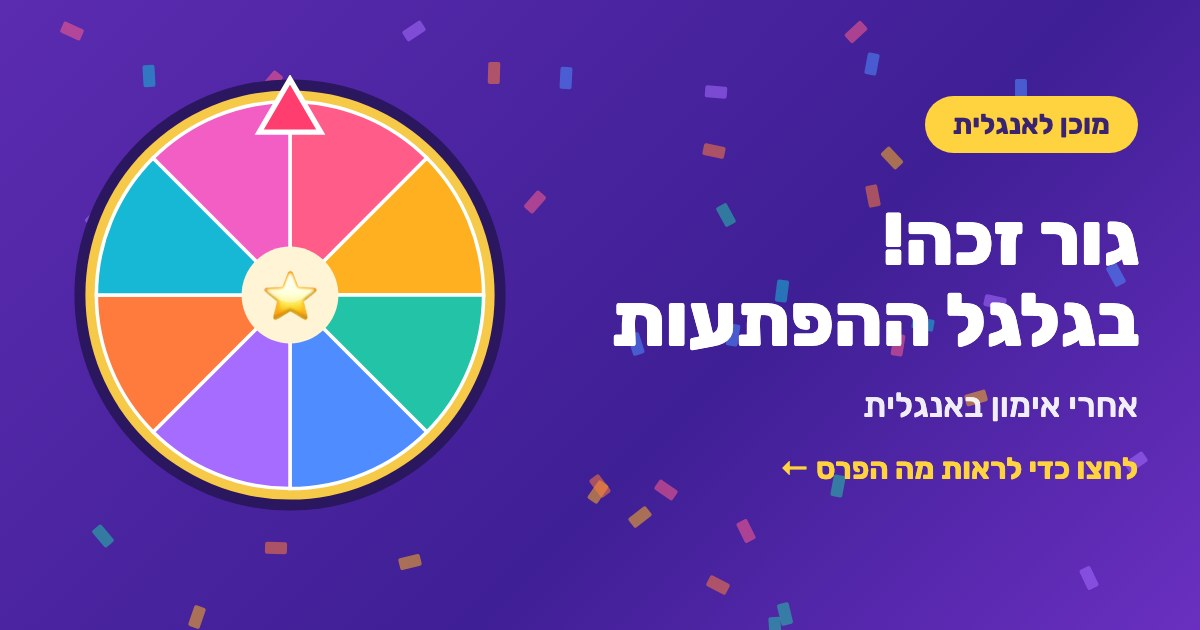
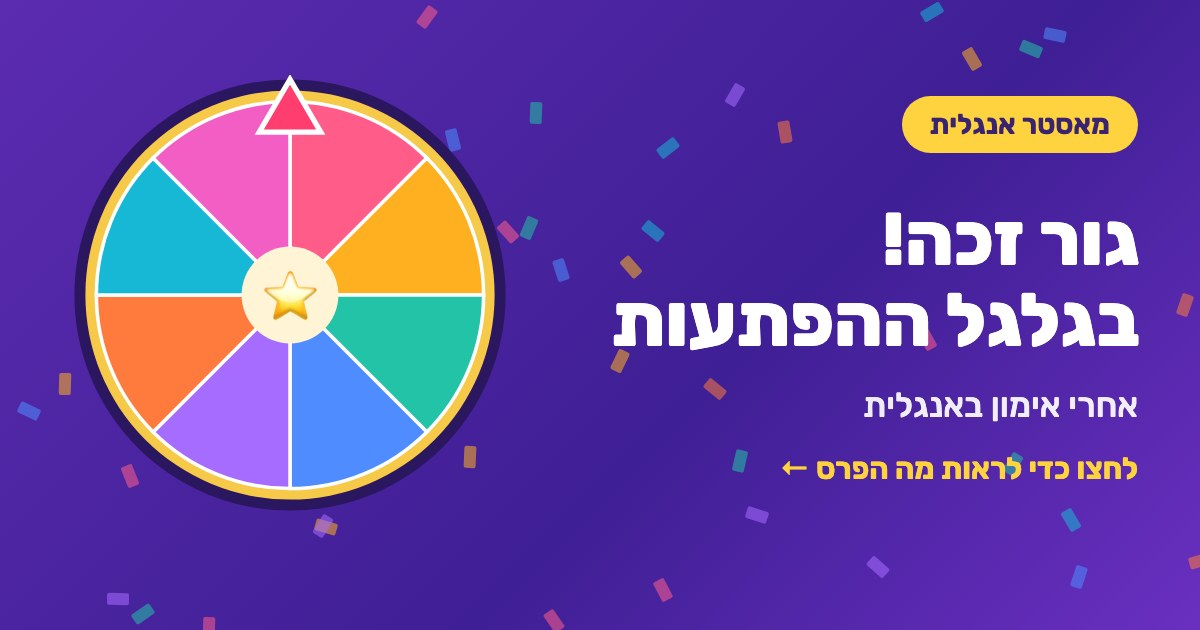
Rename the English app to מאסטר אנגלית (titles, previews, pictures, win pages, hub entry; the english-ready/ address stays); kid links carry a version so WhatsApp builds a fresh preview

diff --git a/english-ready/index.html b/english-ready/index.html
@@ -5,22 +5,22 @@
 <meta name="viewport" content="width=device-width, initial-scale=1, viewport-fit=cover">
 <meta name="description" content="מסע אנגלית משלך, ברמה שלך: מילים, קריאה, כתיבה ודיבור. כמה דקות ביום, עם כוכבים, חותמות והפתעות.">
 <meta property="og:type" content="website">
-<meta property="og:title" content="מוכן לאנגלית">
-<meta property="og:site_name" content="מוכן לאנגלית">
+<meta property="og:title" content="מאסטר אנגלית">
+<meta property="og:site_name" content="מאסטר אנגלית">
 <meta property="og:description" content="מסע אנגלית משלך, ברמה שלך: מילים, קריאה, כתיבה ודיבור. כמה דקות ביום, עם כוכבים, חותמות והפתעות.">
-<meta property="og:image" content="https://yaelavgil.github.io/yaella/english-ready/og.jpg?v=2">
+<meta property="og:image" content="https://yaelavgil.github.io/yaella/english-ready/og.jpg?v=3">
 <meta property="og:image:width" content="1200">
 <meta property="og:image:height" content="630">
 <meta property="og:url" content="https://yaelavgil.github.io/yaella/english-ready/">
 <meta name="twitter:card" content="summary_large_image">
-<meta name="twitter:title" content="מוכן לאנגלית">
+<meta name="twitter:title" content="מאסטר אנגלית">
 <meta name="twitter:description" content="מסע אנגלית משלך, ברמה שלך: מילים, קריאה, כתיבה ודיבור. כמה דקות ביום, עם כוכבים, חותמות והפתעות.">
-<meta name="twitter:image" content="https://yaelavgil.github.io/yaella/english-ready/og.jpg?v=2">
+<meta name="twitter:image" content="https://yaelavgil.github.io/yaella/english-ready/og.jpg?v=3">
 <link rel="icon" href="/yaella/favicon.svg" type="image/svg+xml">
 <link rel="icon" href="/yaella/favicon-32.png" sizes="32x32" type="image/png">
 <link rel="apple-touch-icon" href="/yaella/apple-touch-icon.png">
 <style>:root{color-scheme:light;padding-top:env(safe-area-inset-top,0px);padding-bottom:env(safe-area-inset-bottom,0px)}body{margin:0;font:14px system-ui,sans-serif}img{max-width:100%}[hidden]{display:none!important}</style>
-<title>מוכן לאנגלית</title>
+<title>מאסטר אנגלית</title>
 <link rel="preconnect" href="https://fonts.googleapis.com">
 <link rel="preconnect" href="https://fonts.gstatic.com" crossorigin>
 <link rel="stylesheet" href="https://fonts.googleapis.com/css2?family=Andika:wght@400;700&family=Fredoka:wght@500;600;700&family=Rubik:wght@400;500;700&display=swap">
@@ -2129,7 +2129,7 @@ function home() {
   <header class="hero">
     <div class="heroart" aria-hidden="true"><span class="ha a1">📚</span><span class="ha a2">🚀</span><span class="ha a3">✨</span><span class="ha a4">⭐</span></div>
     <div class="blocks" aria-hidden="true"><span class="blk h1">A</span><span class="blk h2">B</span><span class="blk h4">C</span></div>
-    <h1>${KID ? `${KID.photo ? `<img class="kavatar" src="${KID.photo}" alt="">` : ''}שלום ${esc(KID.name)}!` : 'מוכן לאנגלית'}</h1>
+    <h1>${KID ? `${KID.photo ? `<img class="kavatar" src="${KID.photo}" alt="">` : ''}שלום ${esc(KID.name)}!` : 'מאסטר אנגלית'}</h1>
     ${KID ? `<p class="sub">${KID.mode === 'test' ? 'כאן עושים מבחן ניסיון.' : KID.mode === 'learn' ? 'כאן מתרגלים אנגלית.<br>בהצלחה!' : 'מתכוננים למבחן באנגלית.'}</p>` : ''}
     <div class="pills">${G4 ? `<span class="pill due">${countdown()}</span>` : ''}<span class="pill">${isPP(st) ? `🛂 ${jour(st).n}/${JOUR_N} חותמות` : isStars(st) ? `⭐ ${jour(st).n}/26 כוכבים` : `🔤 ${jour(st).n}/26 אותיות`}</span></div>
   </header>
@@ -2311,7 +2311,8 @@ async function bootKid(id, mode) {
 }
 
 // --- parent side
-const kidLink = (id, mode) => `${location.origin}${location.pathname}?k=${id}&m=${mode}${DEMO ? '&demo' : ''}`;
+const LINK_V = 3; // bump when the link preview changes: WhatsApp caches a preview per exact URL
+const kidLink = (id, mode) => `${location.origin}${location.pathname}?k=${id}&m=${mode}&v=${LINK_V}${DEMO ? '&demo' : ''}`;
 /* ---------- the parent's strip at the top of the home screen ----------
    Getting in used to mean scrolling past everything a child sees to a link at the very
    bottom. The way in now sits above the page, and once a parent is in, each child's day
@@ -3469,7 +3470,7 @@ async function winCardBlob(pz, at, artM) {
   // ribbon
   x.fillStyle = '#FFEDB8'; roundRect(x, W / 2 - 170, 112, 340, 68, 34); x.fill();
   x.fillStyle = '#A8740C'; x.font = f(BOD, 34, 700);
-  x.fillText('מוכן לאנגלית', W / 2, 157);
+  x.fillText('מאסטר אנגלית', W / 2, 157);
 
   // the kid's own photo, in a ring in the corner of the card
   if (KID && KID.photo) {

diff --git a/english-ready/w-lili.html b/english-ready/w-lili.html
@@ -3,22 +3,22 @@
 <head>
 <meta charset="utf-8">
 <meta name="viewport" content="width=device-width,initial-scale=1,viewport-fit=cover">
-<title>🎡 לילי זכתה בגלגל ההפתעות! · מוכן לאנגלית</title>
+<title>🎡 לילי זכתה בגלגל ההפתעות! · מאסטר אנגלית</title>
 
 <!-- WhatsApp and the rest read these from the raw HTML and never run the script below,
      this copy is made by make_win_pages.py for one kid (lili); edit w.html, not this file. The win itself loads when the page opens. -->
 <meta property="og:type" content="website">
-<meta property="og:site_name" content="מוכן לאנגלית">
+<meta property="og:site_name" content="מאסטר אנגלית">
 <meta property="og:title" content="🎡 לילי זכתה בגלגל ההפתעות!">
 <meta property="og:description" content="אחרי אימון באנגלית. לחצו כדי לראות במה זכתה.">
-<meta property="og:image" content="https://yaelavgil.github.io/yaella/english-ready/og-win-lili.jpg?v=3">
+<meta property="og:image" content="https://yaelavgil.github.io/yaella/english-ready/og-win-lili.jpg?v=4">
 <meta property="og:image:width" content="1200">
 <meta property="og:image:height" content="630">
 <meta property="og:url" content="https://yaelavgil.github.io/yaella/english-ready/w-lili.html">
 <meta name="twitter:card" content="summary_large_image">
 <meta name="twitter:title" content="🎡 לילי זכתה בגלגל ההפתעות!">
 <meta name="twitter:description" content="אחרי אימון באנגלית. לחצו כדי לראות במה זכתה.">
-<meta name="twitter:image" content="https://yaelavgil.github.io/yaella/english-ready/og-win-lili.jpg?v=3">
+<meta name="twitter:image" content="https://yaelavgil.github.io/yaella/english-ready/og-win-lili.jpg?v=4">
 <meta name="theme-color" content="#3B1F8F">
 
 <link rel="icon" href="favicon.ico">
@@ -59,9 +59,9 @@
   <div class="card"><div class="ph" id="slot">טוען את הזכייה…</div></div>
   <div class="row" id="acts" hidden>
     <a class="btn" id="dl" download="win.png">⬇ שמירת התמונה</a>
-    <a class="btn ghost" href="./">מוכן לאנגלית</a>
+    <a class="btn ghost" href="./">מאסטר אנגלית</a>
   </div>
-  <p class="foot">מוכן לאנגלית · גלגל ההפתעות</p>
+  <p class="foot">מאסטר אנגלית · גלגל ההפתעות</p>
 </main>
 <script>
 const DB = 'https://home-picks-47450-default-rtdb.europe-west1.firebasedatabase.app';

diff --git a/english-ready/w-dani.html b/english-ready/w-dani.html
@@ -3,22 +3,22 @@
 <head>
 <meta charset="utf-8">
 <meta name="viewport" content="width=device-width,initial-scale=1,viewport-fit=cover">
-<title>🎡 דני זכתה בגלגל ההפתעות! · מוכן לאנגלית</title>
+<title>🎡 דני זכתה בגלגל ההפתעות! · מאסטר אנגלית</title>
 
 <!-- WhatsApp and the rest read these from the raw HTML and never run the script below,
      this copy is made by make_win_pages.py for one kid (dani); edit w.html, not this file. The win itself loads when the page opens. -->
 <meta property="og:type" content="website">
-<meta property="og:site_name" content="מוכן לאנגלית">
+<meta property="og:site_name" content="מאסטר אנגלית">
 <meta property="og:title" content="🎡 דני זכתה בגלגל ההפתעות!">
 <meta property="og:description" content="אחרי אימון באנגלית. לחצו כדי לראות במה זכתה.">
-<meta property="og:image" content="https://yaelavgil.github.io/yaella/english-ready/og-win-dani.jpg?v=3">
+<meta property="og:image" content="https://yaelavgil.github.io/yaella/english-ready/og-win-dani.jpg?v=4">
 <meta property="og:image:width" content="1200">
 <meta property="og:image:height" content="630">
 <meta property="og:url" content="https://yaelavgil.github.io/yaella/english-ready/w-dani.html">
 <meta name="twitter:card" content="summary_large_image">
 <meta name="twitter:title" content="🎡 דני זכתה בגלגל ההפתעות!">
 <meta name="twitter:description" content="אחרי אימון באנגלית. לחצו כדי לראות במה זכתה.">
-<meta name="twitter:image" content="https://yaelavgil.github.io/yaella/english-ready/og-win-dani.jpg?v=3">
+<meta name="twitter:image" content="https://yaelavgil.github.io/yaella/english-ready/og-win-dani.jpg?v=4">
 <meta name="theme-color" content="#3B1F8F">
 
 <link rel="icon" href="favicon.ico">
@@ -59,9 +59,9 @@
   <div class="card"><div class="ph" id="slot">טוען את הזכייה…</div></div>
   <div class="row" id="acts" hidden>
     <a class="btn" id="dl" download="win.png">⬇ שמירת התמונה</a>
-    <a class="btn ghost" href="./">מוכן לאנגלית</a>
+    <a class="btn ghost" href="./">מאסטר אנגלית</a>
   </div>
-  <p class="foot">מוכן לאנגלית · גלגל ההפתעות</p>
+  <p class="foot">מאסטר אנגלית · גלגל ההפתעות</p>
 </main>
 <script>
 const DB = 'https://home-picks-47450-default-rtdb.europe-west1.firebasedatabase.app';

diff --git a/english-ready/w-gur.html b/english-ready/w-gur.html
@@ -3,22 +3,22 @@
 <head>
 <meta charset="utf-8">
 <meta name="viewport" content="width=device-width,initial-scale=1,viewport-fit=cover">
-<title>🎡 גור זכה בגלגל ההפתעות! · מוכן לאנגלית</title>
+<title>🎡 גור זכה בגלגל ההפתעות! · מאסטר אנגלית</title>
 
 <!-- WhatsApp and the rest read these from the raw HTML and never run the script below,
      this copy is made by make_win_pages.py for one kid (gur); edit w.html, not this file. The win itself loads when the page opens. -->
 <meta property="og:type" content="website">
-<meta property="og:site_name" content="מוכן לאנגלית">
+<meta property="og:site_name" content="מאסטר אנגלית">
 <meta property="og:title" content="🎡 גור זכה בגלגל ההפתעות!">
 <meta property="og:description" content="אחרי אימון באנגלית. לחצו כדי לראות במה זכה.">
-<meta property="og:image" content="https://yaelavgil.github.io/yaella/english-ready/og-win-gur.jpg?v=3">
+<meta property="og:image" content="https://yaelavgil.github.io/yaella/english-ready/og-win-gur.jpg?v=4">
 <meta property="og:image:width" content="1200">
 <meta property="og:image:height" content="630">
 <meta property="og:url" content="https://yaelavgil.github.io/yaella/english-ready/w-gur.html">
 <meta name="twitter:card" content="summary_large_image">
 <meta name="twitter:title" content="🎡 גור זכה בגלגל ההפתעות!">
 <meta name="twitter:description" content="אחרי אימון באנגלית. לחצו כדי לראות במה זכה.">
-<meta name="twitter:image" content="https://yaelavgil.github.io/yaella/english-ready/og-win-gur.jpg?v=3">
+<meta name="twitter:image" content="https://yaelavgil.github.io/yaella/english-ready/og-win-gur.jpg?v=4">
 <meta name="theme-color" content="#3B1F8F">
 
 <link rel="icon" href="favicon.ico">
@@ -59,9 +59,9 @@
   <div class="card"><div class="ph" id="slot">טוען את הזכייה…</div></div>
   <div class="row" id="acts" hidden>
     <a class="btn" id="dl" download="win.png">⬇ שמירת התמונה</a>
-    <a class="btn ghost" href="./">מוכן לאנגלית</a>
+    <a class="btn ghost" href="./">מאסטר אנגלית</a>
   </div>
-  <p class="foot">מוכן לאנגלית · גלגל ההפתעות</p>
+  <p class="foot">מאסטר אנגלית · גלגל ההפתעות</p>
 </main>
 <script>
 const DB = 'https://home-picks-47450-default-rtdb.europe-west1.firebasedatabase.app';

diff --git a/english-ready/w.html b/english-ready/w.html
@@ -3,22 +3,22 @@
 <head>
 <meta charset="utf-8">
 <meta name="viewport" content="width=device-width,initial-scale=1,viewport-fit=cover">
-<title>🎡 זכייה בגלגל ההפתעות · מוכן לאנגלית</title>
+<title>🎡 זכייה בגלגל ההפתעות · מאסטר אנגלית</title>
 
 <!-- WhatsApp and the rest read these from the raw HTML and never run the script below,
      so the preview is the same for every win. The win itself loads when the page opens. -->
 <meta property="og:type" content="website">
-<meta property="og:site_name" content="מוכן לאנגלית">
+<meta property="og:site_name" content="מאסטר אנגלית">
 <meta property="og:title" content="🎡 זכייה בגלגל ההפתעות!">
 <meta property="og:description" content="אחרי אימון באנגלית. לחצו כדי לראות מה הפרס.">
-<meta property="og:image" content="https://yaelavgil.github.io/yaella/english-ready/og-win.jpg?v=2">
+<meta property="og:image" content="https://yaelavgil.github.io/yaella/english-ready/og-win.jpg?v=3">
 <meta property="og:image:width" content="1200">
 <meta property="og:image:height" content="630">
 <meta property="og:url" content="https://yaelavgil.github.io/yaella/english-ready/w.html">
 <meta name="twitter:card" content="summary_large_image">
 <meta name="twitter:title" content="🎡 זכייה בגלגל ההפתעות!">
 <meta name="twitter:description" content="אחרי אימון באנגלית. לחצו כדי לראות מה הפרס.">
-<meta name="twitter:image" content="https://yaelavgil.github.io/yaella/english-ready/og-win.jpg?v=2">
+<meta name="twitter:image" content="https://yaelavgil.github.io/yaella/english-ready/og-win.jpg?v=3">
 <meta name="theme-color" content="#3B1F8F">
 
 <link rel="icon" href="favicon.ico">
@@ -59,9 +59,9 @@
   <div class="card"><div class="ph" id="slot">טוען את הזכייה…</div></div>
   <div class="row" id="acts" hidden>
     <a class="btn" id="dl" download="win.png">⬇ שמירת התמונה</a>
-    <a class="btn ghost" href="./">מוכן לאנגלית</a>
+    <a class="btn ghost" href="./">מאסטר אנגלית</a>
   </div>
-  <p class="foot">מוכן לאנגלית · גלגל ההפתעות</p>
+  <p class="foot">מאסטר אנגלית · גלגל ההפתעות</p>
 </main>
 <script>
 const DB = 'https://home-picks-47450-default-rtdb.europe-west1.firebasedatabase.app';

diff --git a/index.html b/index.html
@@ -85,8 +85,8 @@ var BASE = 'https://yaelavgil.github.io/yaella/';
 var PAGES = [
   {slug:'shithead', group:'משחקים', title:'שיטהד · משחק הקלפים', who:'חברים', date:'2026-11-19',
    desc:'חוקי הבית עם הגדרות (2 לפי סמל או מאפס, עם/בלי ג׳וקר). מול המחשב או מרחוק, עם קבוצות קבועות, הזמנות וטבלת מנצחים.', path:'shithead/', thumb:'shithead/og.jpg'},
-  {slug:'english-ready', group:'בית ספר', title:'מוכן לאנגלית · תרגול למבחן המיפוי', who:'משפחה', date:'2026-11-16',
-   desc:'צלילים, אותיות גדולות וקטנות, כתיבה, משפטים, הבנת הנקרא ומספרים עד 12, עם הקראה באנגלית.', path:'english-ready/', thumb:'english-ready/og.jpg'},
+  {slug:'english-ready', group:'בית ספר', title:'מאסטר אנגלית', who:'משפחה', date:'2026-11-16',
+   desc:'מסע אנגלית אישי לכל ילד, ברמה שלו: מילים, קריאה, כתיבה ודיבור, עם כוכבים, חותמות וגלגל הפתעות.', path:'english-ready/', thumb:'english-ready/og.jpg'},
   {slug:'elections-2026', group:'בחירות 2026', title:'שליף אמת · למה הדמוקרטים', who:'חברים', date:'2026-10-27',
    desc:'שליף לנייד: מסרים, תשובות לטענות, 15 הראשונים, עובדות ומפלגות, עם קישורים למקורות ולמצע.', path:'elections-2026/', thumb:'elections-2026/og.jpg'},
   {slug:'garden', group:'הבית · החצר', title:'איזה עץ זה? · משחקון הגינה', who:'משפחה', date:'2026-10-22',

diff --git a/english-ready/og-src/win.html b/english-ready/og-src/win.html
@@ -25,7 +25,7 @@ const sl=document.getElementById('sl'),n=8,c=['#FF5C8A','#FFB020','#22C3A6','#4E
 const P=(a,r)=>[50+r*Math.sin(a*Math.PI/180),50-r*Math.cos(a*Math.PI/180)];
 for(let i=0;i<n;i++){const a0=i*45,a1=a0+45,[x0,y0]=P(a0,44),[x1,y1]=P(a1,44);sl.insertAdjacentHTML('beforeend',`<path d="M50 50 L${x0} ${y0} A44 44 0 0 1 ${x1} ${y1} Z" fill="${c[i]}" stroke="#fff" stroke-width=".8"/>`);}
 </script>
-<span class="pill">מוכן לאנגלית</span>
+<span class="pill">מאסטר אנגלית</span>
 <h1 id="t">זכייה!<br>בגלגל ההפתעות</h1>
 <script>{const q=new URLSearchParams(location.search),n=q.get('n');if(n)document.getElementById('t').innerHTML=`${n.replace(/[<>&]/g,'')} ${q.get('v')==='f'?'זכתה':'זכה'}!<br>בגלגל ההפתעות`;}</script>
 <p class="s">אחרי אימון באנגלית</p>

diff --git a/english-ready/og-src/og.html b/english-ready/og-src/og.html
@@ -22,7 +22,7 @@ svg{position:absolute;inset:0}
   <div class="st" style="left:190px;top:16px;background:#FFD1DC">🎡</div>
 </div>
 <div class="blocks"><div class="b b1">A</div><div class="b b2">B</div><div class="b b3">C</div></div>
-<h1>מוכן לאנגלית</h1>
+<h1>מאסטר אנגלית</h1>
 <p class="sub">מסע אנגלית משלך, ברמה שלך.<br>כמה דקות ביום.</p>
 <div class="chips"><span class="c">📖 קריאה</span><span class="c">✍ כתיבה</span><span class="c">🗣 דיבור</span><span class="c">🎁 הפתעות</span></div>
 </body></html>

diff --git a/english-ready/make_win_pages.py b/english-ready/make_win_pages.py
@@ -13,7 +13,7 @@ from PIL import Image
 D = pathlib.Path(__file__).resolve().parent
 CHROME = '/Applications/Google Chrome.app/Contents/MacOS/Google Chrome'
 BASE = 'https://yaelavgil.github.io/yaella/english-ready/'
-V = '3'  # bump to make WhatsApp fetch the pictures again
+V = '4'  # bump to make WhatsApp fetch the pictures again
 # slug, first name as the kid sees it, 'f' or 'm' (זכתה / זכה)
 KIDS = [('gur', 'גור', 'm'), ('dani', 'דני', 'f'), ('lili', 'לילי', 'f')]
 
@@ -34,7 +34,7 @@ def main():
         title = f'🎡 {name} {won} בגלגל ההפתעות!'
         img = f'{BASE}og-win-{slug}.jpg?v={V}'
         s = src
-        s = re.sub(r'<title>[^<]*</title>', f'<title>{title} · מוכן לאנגלית</title>', s, count=1)
+        s = re.sub(r'<title>[^<]*</title>', f'<title>{title} · מאסטר אנגלית</title>', s, count=1)
         s = re.sub(r'(<meta property="og:title" content=")[^"]*', rf'\g<1>{title}', s, count=1)
         s = re.sub(r'(<meta name="twitter:title" content=")[^"]*', rf'\g<1>{title}', s, count=1)
         s = re.sub(r'(<meta (?:property="og:image"|name="twitter:image") content=")[^"]*', rf'\g<1>{img}', s)
